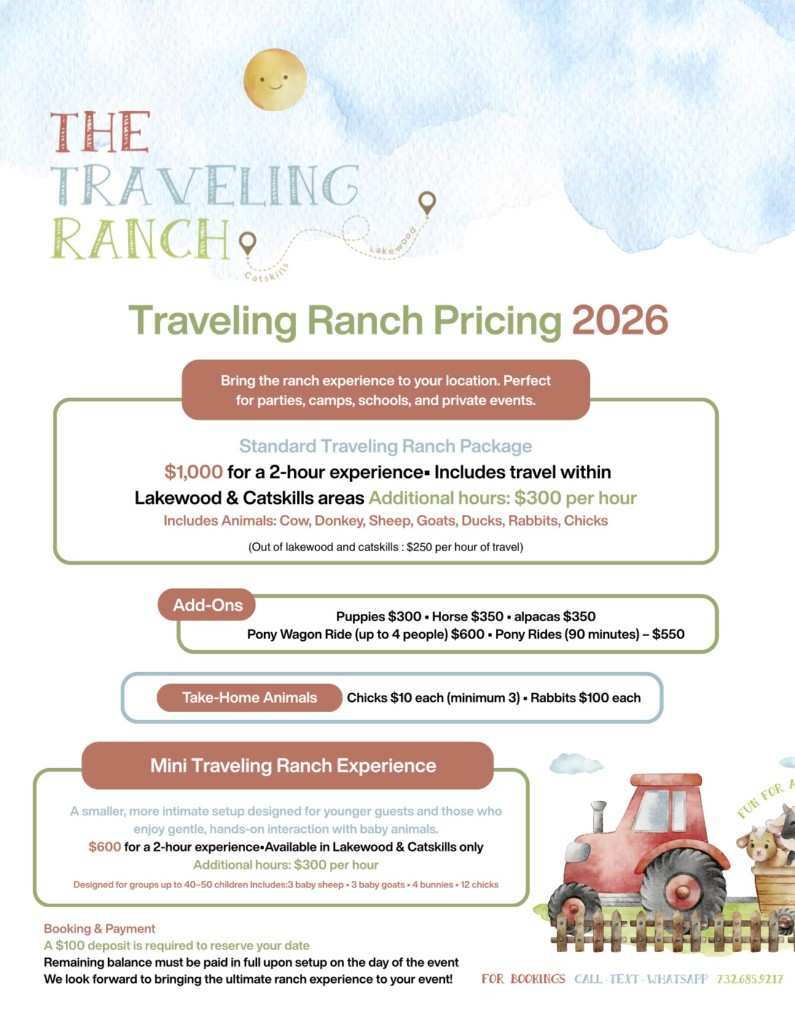
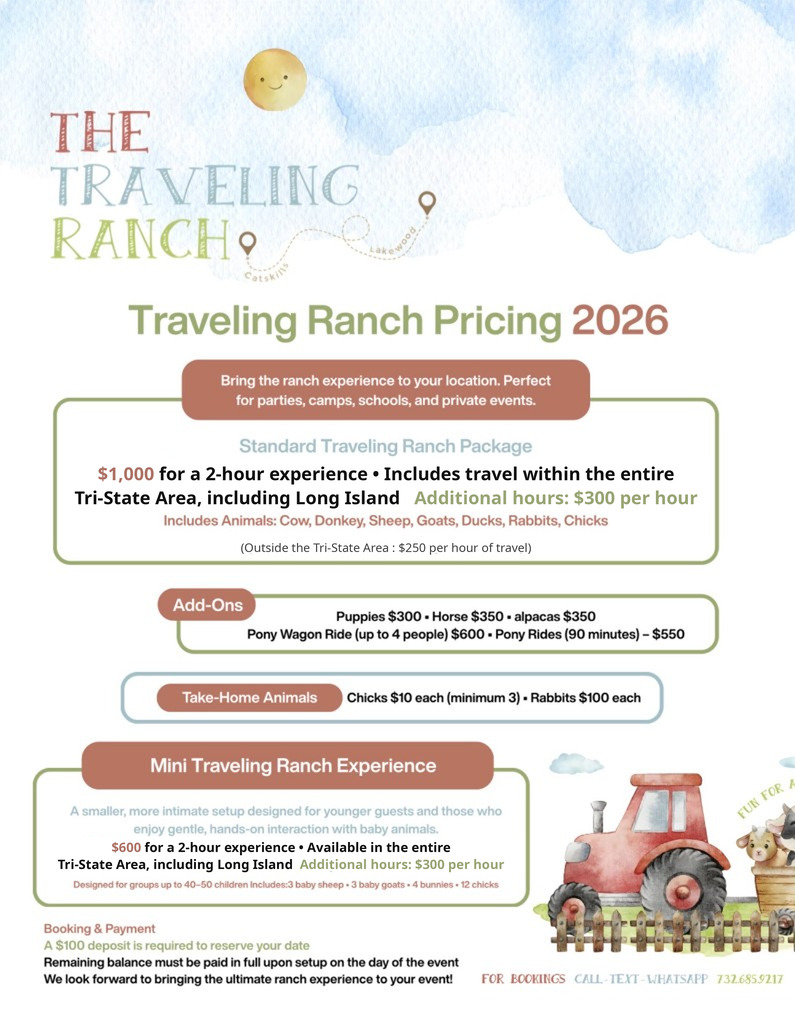
Serve the entire Tri-State Area, including Long Island.
Replace the Lakewood & Catskills service area in the Traveling Ranch
copy, and rewrite the same claim baked into the pricing flyer so the
artwork and the cards agree.

Changed region(s): [[0.0906, 0.4375, 0.8755, 0.5], [0.0906, 0.8125, 0.6038, 0.875], [0.3019, 0.5312, 0.6642, 0.5625]]

diff --git a/events.html b/events.html
@@ -128,10 +128,10 @@
               <h3>Traveling Ranch</h3>
               <p class="price">$1,000 <small>/ 2 hours</small></p>
               <p>
-                Includes travel within Lakewood &amp; Catskills areas. Animals:
-                cow, donkey, sheep, goats, ducks, rabbits &amp; chicks.
-                Additional hours $300/hr; outside Lakewood &amp; Catskills
-                $250/hr of travel.
+                Includes travel within the entire Tri-State Area, including
+                Long Island. Animals: cow, donkey, sheep, goats, ducks,
+                rabbits &amp; chicks. Additional hours $300/hr; outside the
+                Tri-State Area $250/hr of travel.
               </p>
               <button
                 class="btn btn-primary"
@@ -149,8 +149,8 @@
               <p>
                 A smaller, gentler setup for younger guests — groups up to
                 40&ndash;50 children. Includes 3 baby sheep, 3 baby goats,
-                4 bunnies &amp; 12 chicks. Lakewood &amp; Catskills only;
-                additional hours $300/hr.
+                4 bunnies &amp; 12 chicks. Available in the entire Tri-State
+                Area, including Long Island; additional hours $300/hr.
               </p>
               <button
                 class="btn btn-primary"
